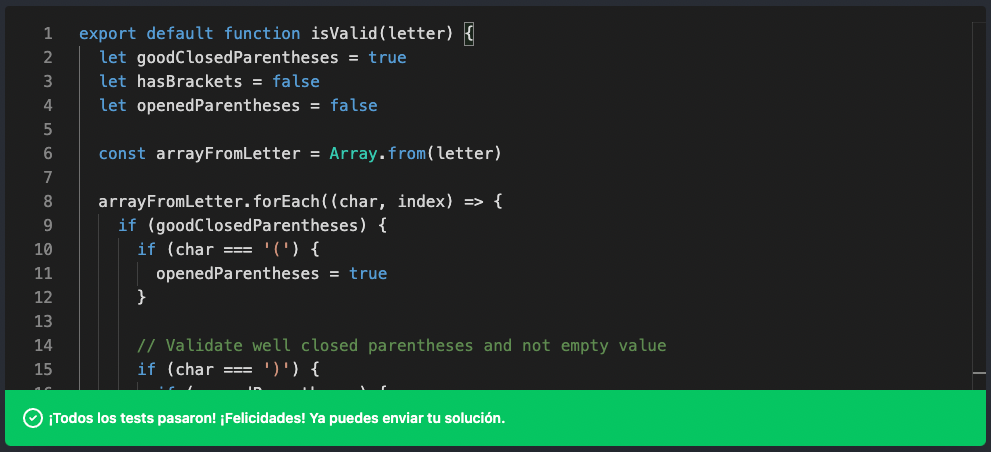
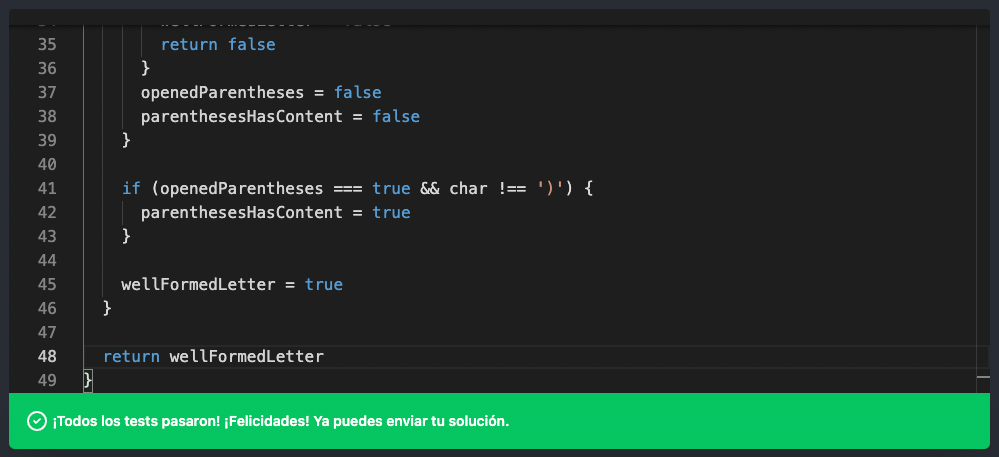
Refactor solution challenge 03

diff --git a/challenges/03/solution.js b/challenges/03/solution.js
@@ -1,55 +1,62 @@
 function isValid(letter) {
-  let goodClosedParentheses = true
-  let hasBrackets = false
+  let wellFormedLetter = true
   let openedParentheses = false
-
+  let parenthesesHasContent = false
   const arrayFromLetter = Array.from(letter)
 
-  arrayFromLetter.forEach((char, index) => {
-    if (goodClosedParentheses) {
-      if (char === '(') {
-        openedParentheses = true
+  for (const char of arrayFromLetter) {
+    // Validate only one opening parenthesis active at a time
+    if (char === '(') {
+      if (openedParentheses) {
+        wellFormedLetter = false
+        return false
       }
-
-      // Validate well closed parentheses and not empty value
-      if (char === ')') {
-        if (openedParentheses) {
-          const emptyParentheses = arrayFromLetter[index - 1] === '('
-          if (!emptyParentheses) {
-            goodClosedParentheses = true
-            openedParentheses = false
-          } else {
-            goodClosedParentheses = false
-          }
-        } else {
-          goodClosedParentheses = false
-        }
-      }
-
-      // Validate brackets and only one item without spaces
-      if (
-        openedParentheses &&
-        (char === '{' ||
-          char === '[' ||
-          char === '}' ||
-          char === ']' ||
-          char === ' ')
-      ) {
-        hasBrackets = true
-      }
+      openedParentheses = true
+      continue
     }
-  })
 
-  return goodClosedParentheses && !hasBrackets
+    // Validate brackets and only one item without spaces
+    if (
+      openedParentheses &&
+      (char === '{' ||
+        char === '[' ||
+        char === '}' ||
+        char === ']' ||
+        char === ' ')
+    ) {
+      wellFormedLetter = false
+      return false
+    }
+
+    // Validate well closed parentheses and not empty value
+    if (char === ')') {
+      if (!openedParentheses || !parenthesesHasContent) {
+        wellFormedLetter = false
+        return false
+      }
+      openedParentheses = false
+      parenthesesHasContent = false
+    }
+
+    if (openedParentheses === true && char !== ')') {
+      parenthesesHasContent = true
+    }
+
+    wellFormedLetter = true
+  }
+
+  return wellFormedLetter
 }
 
-console.log('✅ -> ' + isValid('(balón)')) // -> ✅
-console.log('❌ -> ' + isValid('(balón))')) // -> ❌
+console.log('✅ -> ' + isValid('(balón)'))
+console.log('❌ -> ' + isValid('(balón))'))
 
-console.log('✅ -> ' + isValid('bici coche (balón) bici coche peluche')) // -> ✅
-console.log('✅ -> ' + isValid('(muñeca) consola bici')) // ✅
+console.log('✅ -> ' + isValid('bici coche (balón) bici coche peluche'))
+console.log('✅ -> ' + isValid('(muñeca) consola bici'))
 
-console.log('❌ -> ' + isValid('bici coche (balón bici coche')) // -> ❌
-console.log('❌ -> ' + isValid('peluche (bici [coche) bici coche balón')) // -> ❌
-console.log('❌ -> ' + isValid('(peluche {) bici')) // -> ❌
-console.log('❌ -> ' + isValid('() bici')) // ❌
+console.log('❌ -> ' + isValid('bici coche (balón bici coche'))
+console.log('❌ -> ' + isValid('peluche (bici [coche) bici coche balón'))
+console.log('❌ -> ' + isValid('(peluche {) bici'))
+console.log('❌ -> ' + isValid('() bici'))
+
+console.log('❌ -> ' + isValid('(a() bici (a)'))
